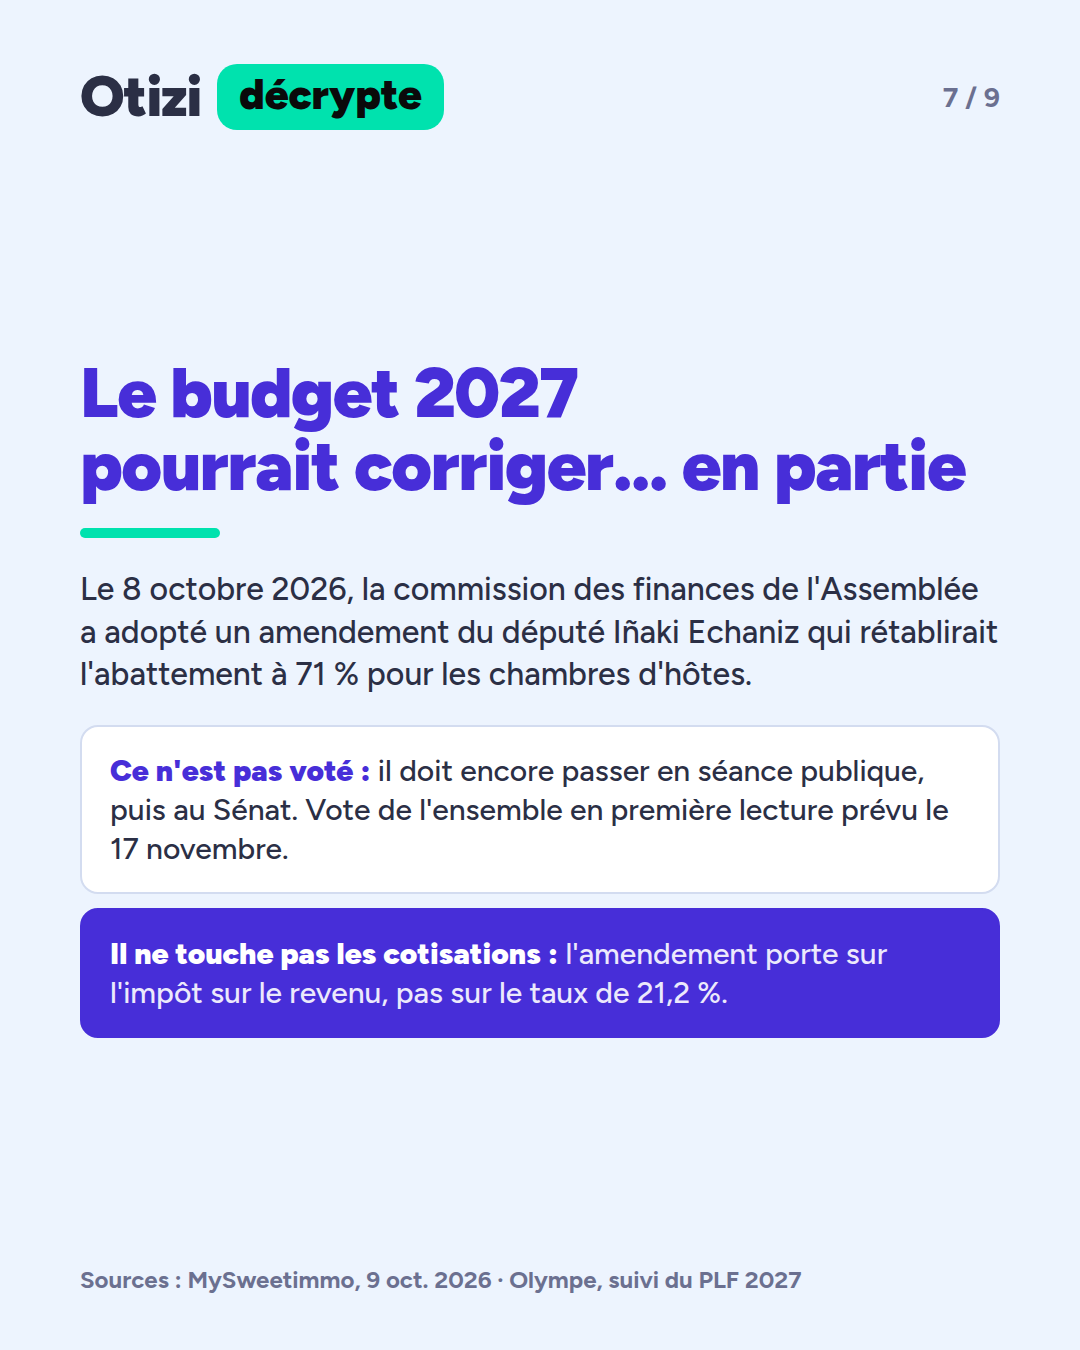
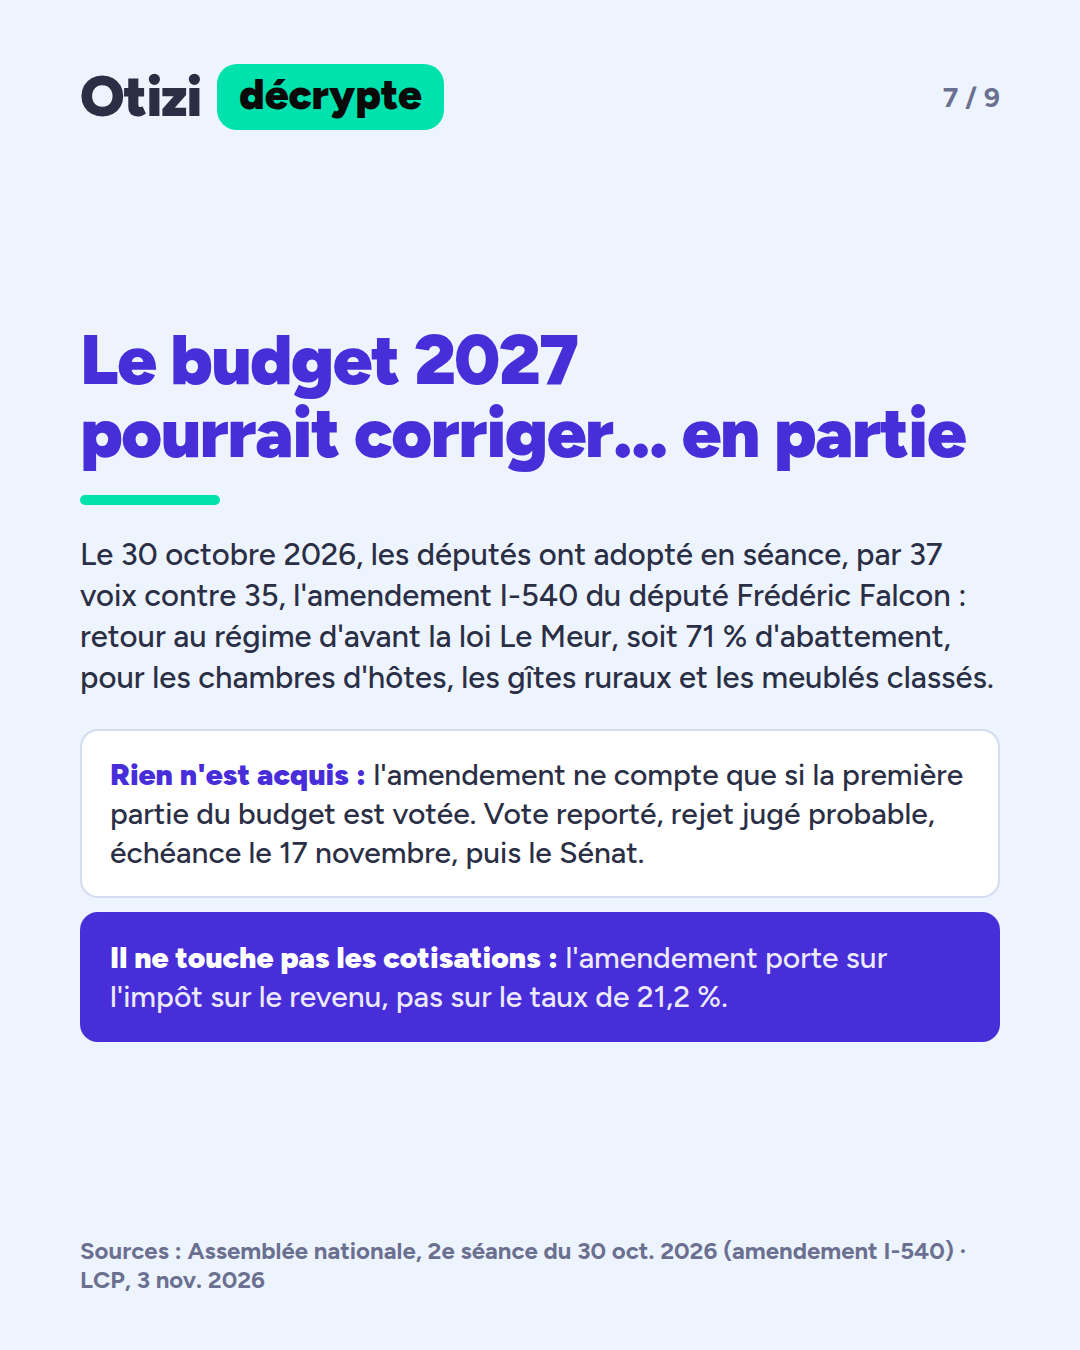
Cotisations : slides 7 et 9 à jour (amendement I-540 adopté en séance le 30 octobre, 37 voix contre 35 ; vote de la première partie reporté, échéance 17 novembre)

Changed region(s): [[0.0611, 0.2489, 0.9167, 0.5289], [0.0611, 0.56, 0.9167, 0.7778], [0.0611, 0.9022, 0.8861, 0.9644]]

diff --git a/tools/post_cotisations.py b/tools/post_cotisations.py
@@ -9,7 +9,7 @@ N = 9
 SRC_CO = "Source : Compta Online, taux micro-social 2026 (d'après l'Urssaf)"
 SRC_CX = "Source : The Connexion, 23 déc. 2025 (maj 6 janv. 2026)"
 SRC_AN = "Source : Assemblée nationale, réponse ministérielle du 20 mai 2025 (QE n° 6664)"
-SRC_PLF = "Sources : MySweetimmo, 9 oct. 2026 · Olympe, suivi du PLF 2027"
+SRC_PLF = "Sources : Assemblée nationale, 2e séance du 30 oct. 2026 (amendement I-540) · LCP, 3 nov. 2026"
 slides = {}
 
 slides["Main.dc.html"] = page("Couverture", category_pill("Actu", "actu"),
@@ -81,9 +81,9 @@ slides["S5.dc.html"] = page("L'abattement fiscal", f"6 / {N}",
 slides["S6.dc.html"] = page("Budget 2027", f"7 / {N}",
     f"""
     {title_plain(["Le budget 2027", "pourrait corriger… en partie"], 70)}
-    {para("Le 8 octobre 2026, la commission des finances de l'Assemblée a adopté un amendement du député Iñaki Echaniz qui rétablirait l'abattement à 71 % pour les chambres d'hôtes.", 32)}
+    {para("Le 30 octobre 2026, les députés ont adopté en séance, par 37 voix contre 35, l'amendement I-540 du député Frédéric Falcon : retour au régime d'avant la loi Le Meur, soit 71 % d'abattement, pour les chambres d'hôtes, les gîtes ruraux et les meublés classés.", 31)}
     <div style="display: flex; flex-direction: column; gap: 14px">
-      {card("il doit encore passer en séance publique, puis au Sénat. Vote de l'ensemble en première lecture prévu le 17 novembre.", "Ce n'est pas voté :")}
+      {card("l'amendement ne compte que si la première partie du budget est votée. Vote reporté, rejet jugé probable, échéance le 17 novembre, puis le Sénat.", "Rien n'est acquis :")}
       {card("l'amendement porte sur l'impôt sur le revenu, pas sur le taux de 21,2 %.", "Il ne touche pas les cotisations :", light=True)}
     </div>
     """,
@@ -106,9 +106,9 @@ slides["S8.dc.html"] = page("À retenir", f"9 / {N}",
     <div style="display: flex; flex-direction: column; gap: 14px">
       {item("21,2 % de cotisations depuis le 1er janvier 2026, contre 6 % pour un gîte classé", "no")}
       {item("Abattement fiscal ramené de 71 % à 50 % depuis les revenus 2025", "no")}
-      {item("Un amendement voté en commission veut rétablir les 71 % : décision en séance, puis au Sénat", "yes")}
+      {item("Un amendement adopté en séance le 30 octobre rétablirait les 71 % : vote de la première partie du budget à venir, puis le Sénat", "yes")}
     </div>
-    {para("Sources : Compta Online, taux micro-social 2026 (maj 14 sept. 2026) · The Connexion, 23 déc. 2025 · Assemblée nationale, réponse à la QE n° 6664, 20 mai 2025 · MySweetimmo, 9 oct. 2026 · Olympe, suivi du PLF 2027.", 22, MUTED)}
+    {para("Sources : Compta Online, taux micro-social 2026 (maj 14 sept. 2026) · The Connexion, 23 déc. 2025 · Assemblée nationale, réponse à la QE n° 6664, 20 mai 2025 · Assemblée nationale, 2e séance du 30 oct. 2026 et amendement I-540 · LCP, 3 nov. 2026.", 22, MUTED)}
     """,
     "Chaque semaine, ce qui change pour les gîtes et chambres d'hôtes",
     f'<span style="display: inline-flex; align-items: center; gap: 10px; color: {VIOLET}; font-weight: 900">Suivez-nous {icon("arrow")}</span>',
